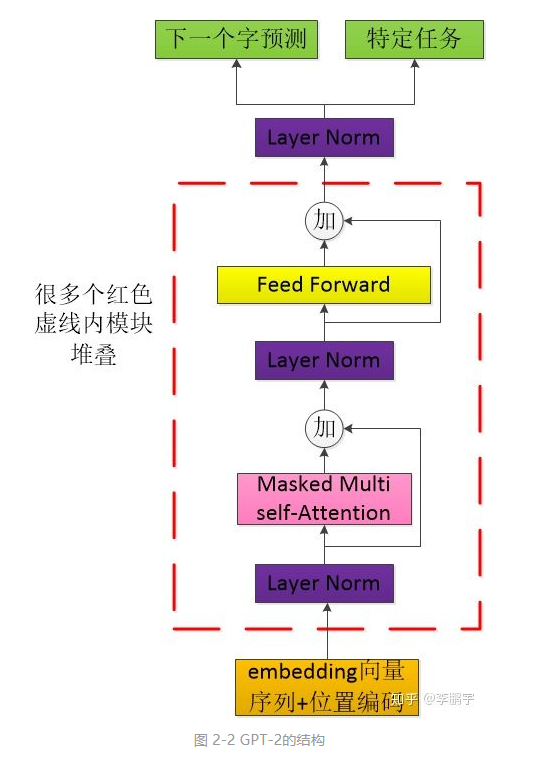
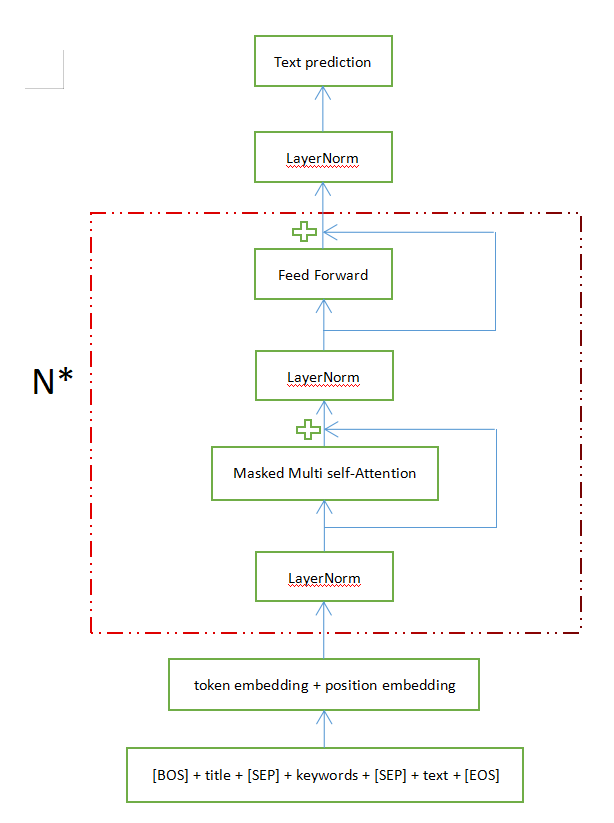
README.md

diff --git a/README.md b/README.md
@@ -6,6 +6,8 @@
 ![image](https://raw.githubusercontent.com/jiangnanboy/text_generation/master/img/data.png)
 
 ### 模型 
+![image](https://raw.githubusercontent.com/jiangnanboy/text_generation/master/img/gpt2.png)
+
     src/text_keywords_generation
     1.训练：src/text_keywords_generation/train.py
         linux:sh run.sh
@@ -23,6 +25,7 @@
     requirement.txt
 
 ### References
+* https://jalammar.github.io/illustrated-gpt2/
 * https://github.com/Morizeyao/GPT2-Chinese
 * https://github.com/huggingface/transformers
 * https://huggingface.co/uer/gpt2-chinese-cluecorpussmall
